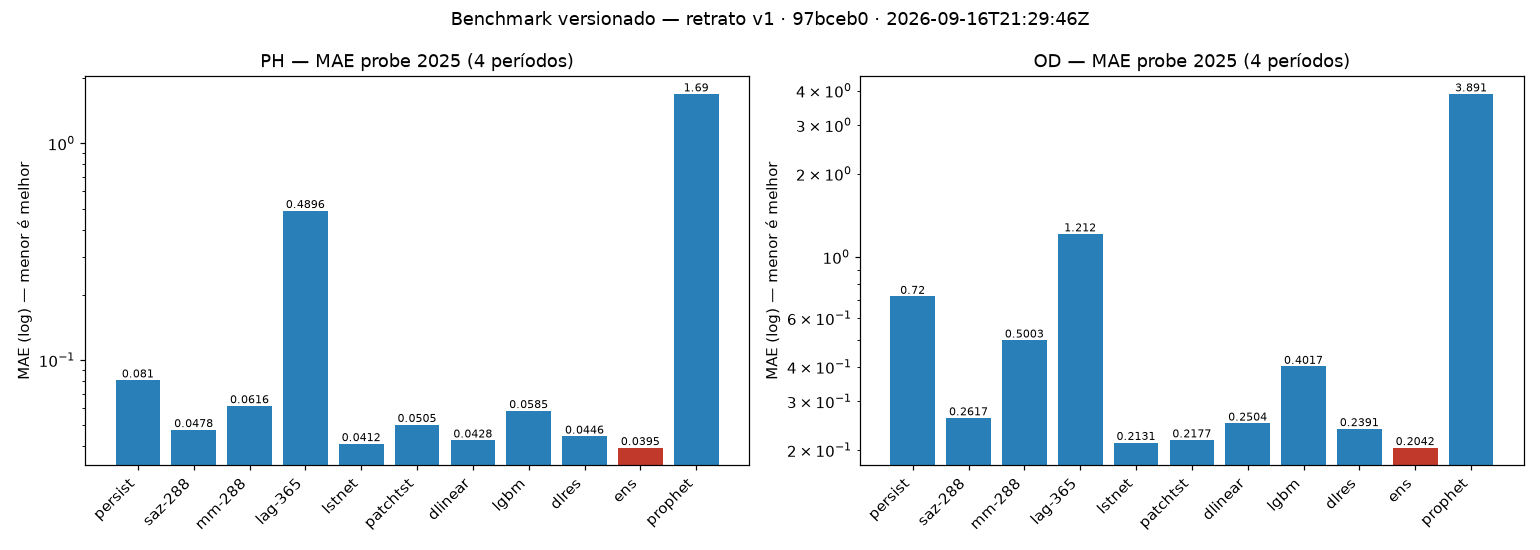
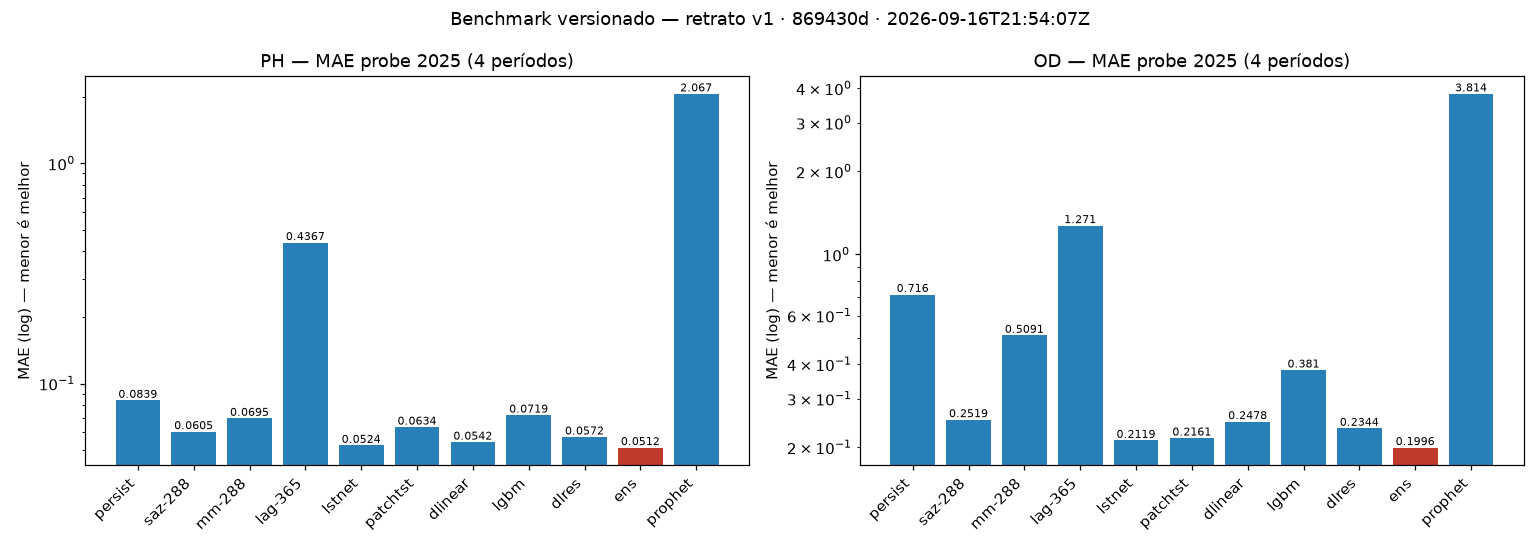
feat(benchmark): probe tolera furo ≤3h, redes leem X preenchido + README
origens_probe aceita janelas-âncora com até 36 slots de furo (3h),
preenchidos por interpolação local e registrados em meta.json; gap
maior descarta a origem. P4 pH passa de n=0 a n=10 (furo de 11 slots
do gap 30/set); pH 39 e OD 38 origens.

Corrige contaminação por NaN: LSTNet/PatchTST/DLinear/DLinear-res
liam a série crua (Wln) e devolviam NaN em 7 origens — agora Xt/T
derivam do próprio X preenchido (equivalência bit-a-bit c/ o 08 em
janela limpa) + trava que aborta se qualquer predição tiver NaN.

v1 recongelado: pH ens 0,0512 (lstnet 0,0524) · OD ens 0,1996
(lstnet 0,2119). README do benchmark: metodologia, períodos,
tolerância, modelos, como rodar e tabela v1.

diff --git a/benchmark/benchmark-2025/benchmark_versoes.py b/benchmark/benchmark-2025/benchmark_versoes.py
@@ -7,9 +7,9 @@ de 10 dias em 2025, um por estação, só dias-âncora (23:55):
     P1 2025-03-08 → 2025-03-17   P2 2025-05-03 → 2025-05-12
     P3 2025-08-22 → 2025-08-31   P4 2025-10-01 → 2025-10-10
 
-Períodos escolhidos por busca (max cobertura conjunta pH+OD de âncoras com
-janela L+H limpa); P4 tem n=0 no pH (out–dez/2025 não tem 31 dias limpos —
-dado, não bug; registrado como n=0). Fixos daqui em diante p/ comparar v1×v2.
+Períodos escolhidos por busca (max cobertura conjunta pH+OD de âncoras); com a
+tolerância de 3 h todos os períodos têm ~10 origens (P4 pH preenche o furo de
+11 slots do gap 30/set). Fixos daqui em diante p/ comparar v1×v2.
 
 11 modelos por variável (fiel ao 08): persistencia, sazonal_naive_288,
 media_movel_288, sazonal_lag365 (+fallback saz-288), lstnet, patchtst,
@@ -78,6 +78,12 @@ HIST = OUTROOT / "historico.csv"
 
 # Protocolo travado (AGENTS.md): L=8640 (30 d), H=288 (1 d), passo 5 min.
 L, H, SEASON, INTERP_LIMIT, LN, HN = 8640, 288, 288, 24, 2016, 288
+
+# Tolerância do PROBE (só aqui; notebooks seguem descartando qualquer NaN):
+# janelas-âncora com até TOL_NAN slots faltantes (3 h) são aceitas e têm os
+# furos preenchidos por interpolação linear local. Gap de horas não invalida
+# 31 dias de contexto para fins de benchmark. Gaps maiores descartam a origem.
+TOL_NAN = 36
 
 PERIODOS = [
     ("P1", "2025-03-08", "2025-03-17"),
@@ -192,30 +198,37 @@ def ler(path: Path, col: str) -> pd.Series:
     return s
 
 
-# ---------- probe: origens-âncora com janela limpa, por período ----------
-def origens_probe(s: pd.Series) -> tuple[np.ndarray, np.ndarray, object, list[str]]:
+# ---------- probe: origens-âncora por período (tolera furo ≤ TOL_NAN) ----------
+def origens_probe(s: pd.Series) -> tuple[np.ndarray, np.ndarray, object, list[str], dict[str, int]]:
     v = s.to_numpy().astype(np.float32)
-    bad = s.isna().to_numpy()
-    cs = np.concatenate([[0], bad.cumsum()])
-    limpo = (cs[L + H:] - cs[:len(cs) - (L + H)] == 0)  # janela [e-L-H+1, e] sem NaN
     grade = s.index
-    ends_all = grade[L + H - 1:]
     Xs, Ys, pids, ends = [], [], [], []
+    maxfill: dict[str, int] = {}
     for pid, a, b in PERIODOS:
-        d0, d1 = pd.Timestamp(a).date(), pd.Timestamp(b).date()
-        for k, e in enumerate(ends_all):
-            if not (d0 <= e.date() <= d1):
-                continue
-            if e.time() != pd.Timestamp("23:55").time():
-                continue
-            if not limpo[k]:
+        d0 = pd.Timestamp(a).date()
+        mf = 0
+        for k in range(10):
+            e = pd.Timestamp(d0 + pd.Timedelta(days=k), hour=23, minute=55)
+            if e not in grade:
                 continue
             pos = grade.get_loc(e)
+            if pos < L + H - 1:
+                continue
             win = v[pos - (L + H) + 1: pos + 1]
+            n = int(np.isnan(win).sum())
+            if n > TOL_NAN:
+                continue  # gap grande: descarta a origem (não prevê no escuro)
+            if n:
+                win = pd.Series(win).interpolate(
+                    method="linear", limit_direction="both").to_numpy(dtype=np.float32)
+                if bool(np.isnan(win).any()):
+                    continue  # furo na borda sem vizinho: descarta
+                mf = max(mf, n)
             Xs.append(win[:L]); Ys.append(win[L:]); pids.append(pid); ends.append(e)
+        maxfill[pid] = mf
     X = np.stack(Xs).astype(np.float32) if Xs else np.empty((0, L), np.float32)
     Y = np.stack(Ys).astype(np.float32) if Ys else np.empty((0, H), np.float32)
-    return X, Y, pd.DatetimeIndex(ends), pids
+    return X, Y, pd.DatetimeIndex(ends), pids, maxfill
 
 
 # ---------- modelos baratos (fiel ao 08, cel 5) ----------
@@ -284,15 +297,14 @@ def roda_variavel(var: str, s24: pd.Series, s: pd.Series,
     t0 = time.time()
     preds = cheap_preds(X)
     preds["sazonal_lag365"], fb = lag365_preds(s24, X, Y, ends)
-    val5 = s.to_numpy().astype(np.float32)
-    SIN5 = np.sin(2 * np.pi * (s.index.hour.to_numpy() * 60
-                               + s.index.minute.to_numpy()) / 1440.0).astype(np.float32)
-    COS5 = np.cos(2 * np.pi * (s.index.hour.to_numpy() * 60
-                               + s.index.minute.to_numpy()) / 1440.0).astype(np.float32)
-    Wln = sliding_window_view(val5, LN)
-    Tln = sliding_window_view(np.stack([SIN5, COS5], axis=1), LN, axis=0
-                              ).transpose(0, 2, 1).astype(np.float32)
-    rowln = s.index.get_indexer(ends - pd.Timedelta(minutes=5 * H)) - LN + 1
+    # Janela LN a partir do PRÓPRIO X (já com furos ≤3h preenchidos) — nunca da
+    # série crua, senão o NaN original vaza p/ as redes. Xt == Wln do 08 em
+    # janelas limpas (mesmos valores, mesma ordem).
+    Xt = X[:, -LN:].astype(np.float32)
+    e_min = ends.values.astype("datetime64[m]").astype(np.int64)
+    mins = (e_min - H * 5)[:, None] - 5 * np.arange(LN - 1, -1, -1)[None, :]
+    ang = (2 * np.pi * (mins % 1440) / 1440.0).astype(np.float32)
+    T = np.stack([np.sin(ang), np.cos(ang)], axis=-1).astype(np.float32)
     C = CKPTS[var]
     lstnet = load_state(LSTNet1D, C["lstnet"])
     patch = load_state(PatchTST, C["patch"])
@@ -306,14 +318,14 @@ def roda_variavel(var: str, s24: pd.Series, s: pd.Series,
     def fwd1(model, tod=None, batch=64):
         outs = []
         for b in range(0, len(X), batch):
-            xb = torch.from_numpy(Wln[rowln[b:b + batch]])
+            xb = torch.from_numpy(Xt[b:b + batch])
             if tod is None:
                 outs.append(model(xb).numpy())
             else:
-                outs.append(model(xb, torch.from_numpy(tod[rowln[b:b + batch]])).numpy())
+                outs.append(model(xb, torch.from_numpy(tod[b:b + batch])).numpy())
         return np.concatenate(outs)
 
-    Pn = fwd1(lstnet, Tln)
+    Pn = fwd1(lstnet, T)
     Pt = fwd1(patch)
     Dl = fwd1(dlin)
     F, em = base_feats(X, ends)
@@ -324,6 +336,11 @@ def roda_variavel(var: str, s24: pd.Series, s: pd.Series,
         Gb[:, j] = S[:, j] + m.predict(np.column_stack([F, sh, ch]))
     Dr = S + fwd1(dlres)
     En = w[0] * S + w[1] * Pn + w[2] * Gb + w[3] * Dr
+    for m, P in (("lstnet", Pn), ("patchtst", Pt), ("dlinear", Dl),
+                 ("dlres", Dr), ("ens", En)):
+        n = int(np.isnan(np.asarray(P)).sum())
+        if n:
+            raise SystemExit(f"{var}/{m}: {n} NaN na predição — origem contaminada")
     preds.update({"lstnet": Pn, "patchtst": Pt, "dlinear": Dl,
                   "lgbm": Gb, "dlres": Dr, "ens": En})
     Pp = ROOT / "resultados" / C["prophet"]
@@ -387,16 +404,18 @@ def cmd_snapshot(tag: str, refazer: bool = False) -> None:
     dest.mkdir(parents=True)
     (dest / "vals").mkdir()
     cobertura: dict[str, dict[str, int]] = {}
+    preench: dict[str, dict[str, int]] = {}
     medias: dict[str, pd.DataFrame] = {}
     for var, (f24, f25, col) in FILES.items():
         print(f"[{tag}] {var}: carga 2024+2025...")
         s24, s25 = ler(TR / f24, col), ler(BM / f25, col)
-        X, Y, ends, pids = origens_probe(s25)
+        X, Y, ends, pids, maxfill = origens_probe(s25)
         if len(X) == 0:
             raise SystemExit(f"[{tag}] {var}: zero origens — revise PERIODOS")
         nper = {pid: int((np.array(pids) == pid).sum()) for pid, _, _ in PERIODOS}
         cobertura[var] = nper
-        print(f"[{tag}] {var}: {len(X)} origens {nper}")
+        preench[var] = maxfill
+        print(f"[{tag}] {var}: {len(X)} origens {nper} | máx preenchido {maxfill}")
         preds = roda_variavel(var, s24, s25, X, Y, ends)
         per, med = agrega(var, preds, Y, pids)
         per.to_csv(dest / f"metricas_periodos_{var}.csv")
@@ -421,10 +440,15 @@ def cmd_snapshot(tag: str, refazer: bool = False) -> None:
     sha = git_sha()
     (dest / "meta.json").write_text(json.dumps({
         "tag": tag, "timestamp_utc": ts, "git_sha": sha,
-        "metodologia": "probe-4-periodos-ancoras-23h55 (pipeline própria; 08 não lido)",
-        "protocolo": {"L": L, "H": H, "nota": "só inferência em 2025, sem tuning"},
+        "metodologia": "probe-4-periodos-ancoras-23h55 tolerancia-3h (pipeline própria; 08 não lido)",
+        "protocolo": {"L": L, "H": H, "nota": "só inferência em 2025, sem tuning",
+                      "tolerancia_nan_slots": TOL_NAN,
+                      "nota_tolerancia": "origens com furo ≤3h têm o furo interpolado localmente; gap maior descarta a origem"},
         "periodos": {pid: {"inicio": a, "fim": b, "n_ph": cobertura["ph"][pid],
-                           "n_od": cobertura["od"][pid]} for pid, a, b in PERIODOS},
+                           "n_od": cobertura["od"][pid],
+                           "preenchido_ph": preench["ph"][pid],
+                           "preenchido_od": preench["od"][pid]}
+                     for pid, a, b in PERIODOS},
         "runtime_s": round(time.time() - t00),
     }, indent=2, sort_keys=True) + "\n")
 

diff --git a/benchmark/benchmark-2025/README.md b/benchmark/benchmark-2025/README.md
@@ -1,0 +1,54 @@
+# Benchmark versionado — probe em 4 períodos de 2025
+
+Compara modelos (e versões de modelos) de forma repetível: carrega os checkpoints de
+`resultados/` (00–07) e roda **só inferência** sobre 4 períodos de 10 dias em 2025, um
+por estação, só dias-âncora (23:55). Não lê nada de `resultados/08-benchmark-2025/`
+(metodologia própria, mais barata que o rolante do ano todo).
+
+## Períodos (fixos — é o que torna v1×v2 comparável)
+
+| Período | Datas | n pH | n OD |
+|---|---|---|---|
+| P1 | 08–17/mar/2025 | 10 | 10 |
+| P2 | 03–12/mai/2025 | 10 | 9 |
+| P3 | 22–31/ago/2025 | 9 | 9 |
+| P4 | 01–10/out/2025 | 10 | 10 |
+
+Escolhidos por busca (maior cobertura conjunta pH+OD de âncoras por trimestre).
+Origens com furo **≤ 3 h (36 slots)** têm o furo interpolado localmente e entram
+(`meta.json` registra o máx preenchido por período); gap maior descarta a origem —
+gap de horas não invalida 31 dias de contexto para fins de benchmark, mas o modelo
+não prevê no escuro. Ex.: P4 pH preenche o furo de 11 slots do gap de 30/set; a
+âncora P3 mais antiga cai no gap de 55 slots de 22/jul e fica de fora (n=9).
+
+## Modelos (11 por variável, fiel ao 08)
+
+persistencia, sazonal_naive_288, media_movel_288, sazonal_lag365 (+fallback saz-288),
+lstnet, patchtst, dlinear, lgbm (288), dlres, ens (pesos NNLS, **sem refit**),
+prophet (opcional — pulado se o artefato sumir). `LSTNet1D`/`DLinearLite` vêm de
+`app.py` (fonte única com a API); `PatchTST`/feats são cópia fiel do 08 com pin.
+
+## Como rodar
+
+```bash
+.venv/bin/python benchmark/benchmark-2025/benchmark_versoes.py --tag v1   # congela versão (~2 min CPU)
+.venv/bin/python benchmark/benchmark-2025/benchmark_versoes.py --tag v2   # após evoluir notebooks, mesmos períodos
+.venv/bin/python benchmark/benchmark-2025/benchmark_versoes.py --tag v1 --refazer  # recongela (apaga a tag antes)
+.venv/bin/python benchmark/benchmark-2025/benchmark_versoes.py --diff v1 v2        # ΔMAE/Δ% no terminal
+.venv/bin/python benchmark/benchmark-2025/benchmark_versoes.py --plot v1           # retrato; --plot v1 v2 = evolução
+```
+
+## Saídas (`resultados/`)
+
+- `historico.csv` — append-only: uma linha por (tag, variável, modelo); `MAE_benchmark` = média pooled do probe.
+- `<tag>/metricas_periodos_{ph,od}.csv` — modelo × (MAE/RMSE/n por período). É o dado individual.
+- `<tag>/metricas_media_{ph,od}.csv` — média pooled por modelo. É o que alimenta o gráfico.
+- `<tag>/01-mae-benchmark-<tag>.png` — barras em escala log, eixo "menor é melhor", campeão em vermelho.
+- `<tag>/meta.json` — tag, SHA, protocolo, períodos + cobertura + preenchimento, runtime.
+- `<tag>/vals/` — cópias das vals 2024 (referência; 2025 nunca entra em tuning aqui).
+
+## v1 (probe, 16/09/2026)
+
+pH (39 origens): **ens 0,0512** · lstnet 0,0524 · saz-288 0,0605 · lag-365 0,4367 · prophet 2,07.
+OD (38 origens): **ens 0,1996** · lstnet 0,2119 · saz-288 0,2519 · lag-365 1,27 · prophet 3,81.
+Mesma hierarquia do 08 (ens vence nas duas, lag-365 inútil, prophet explode).
